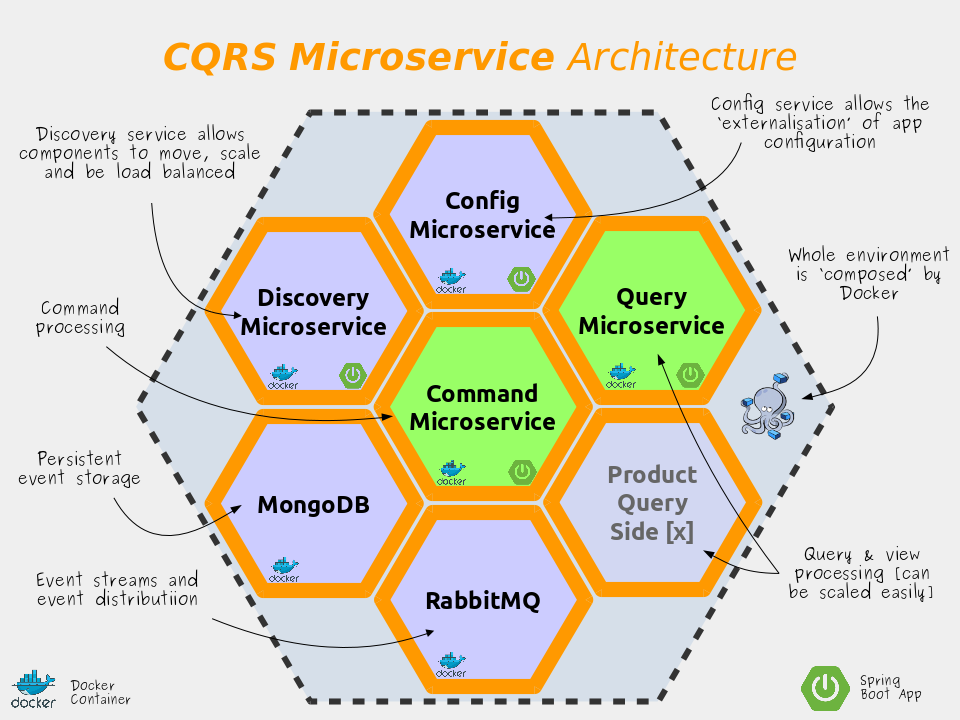
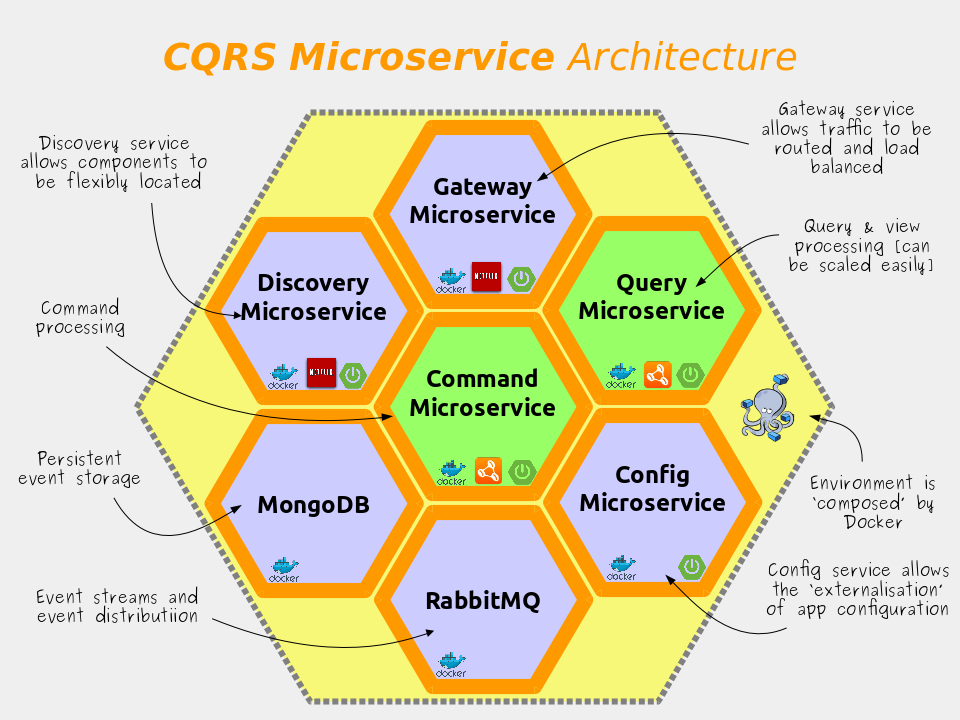
updated readme and slides

diff --git a/README.md b/README.md
@@ -1,4 +1,4 @@
-#Microservices with Docker, Spring Boot and Axon CQRS/ES
+#Microservices with Docker, Spring Boot, Spring Cloud and Axon
 
 This is a non-trivial demonstration of how to build a CQRS microservice application consisting of several collaborating microservices. It combines together all of the following elements in order to produce one logical application - a simple Product Master Data service.
 
